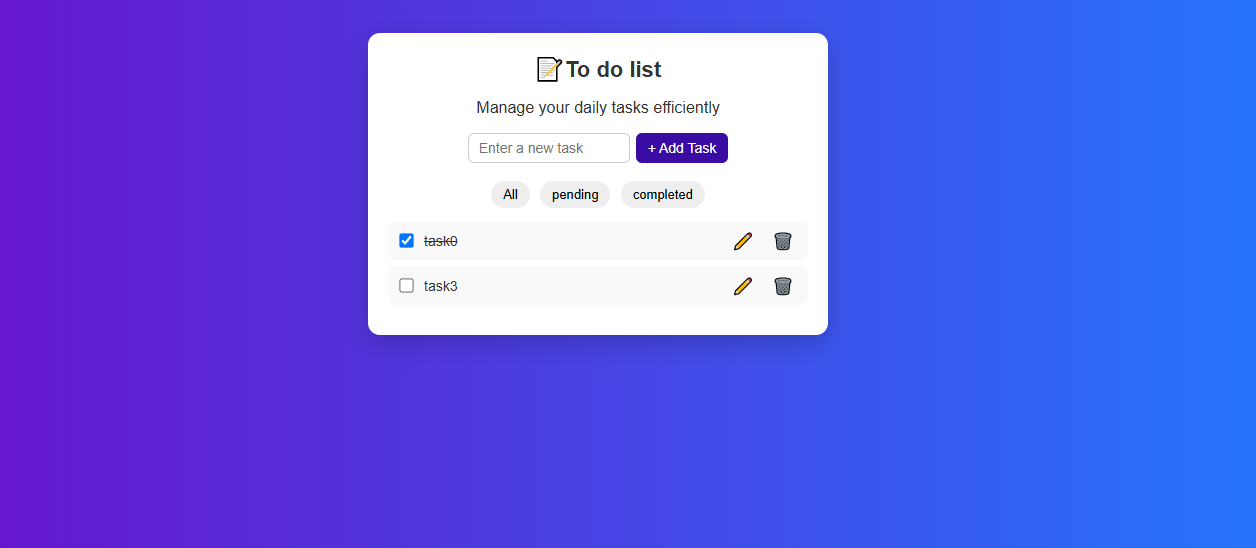
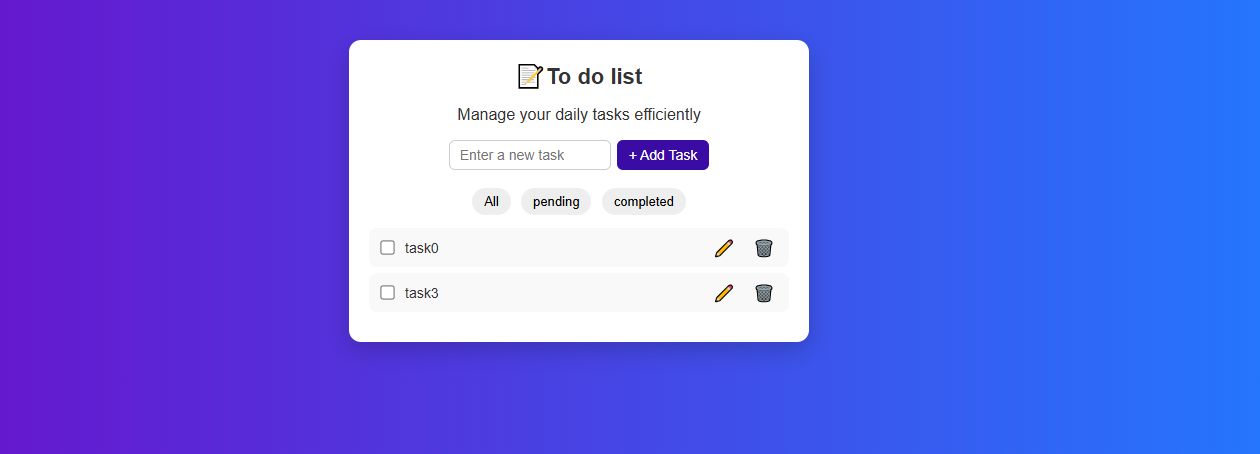
readme.md  updated

Changed region(s): [[0.2795, 0.0617, 0.6831, 0.7709]]

diff --git a/README.md b/README.md
@@ -31,6 +31,13 @@ A popup will let you change the task text.
 Click the 🗑 **Delete** icon beside any task to remove it.
 
 ![Delete Task](delete.png)
+### 5 Complete a Task
+
+Click the checkbox beside a task to mark it as **completed**.  
+Completed tasks appear with a line-through style or a different color (depending on your design).
+
+![Complete Task](complete.png)
+
 
 ## Technologies Used
 
